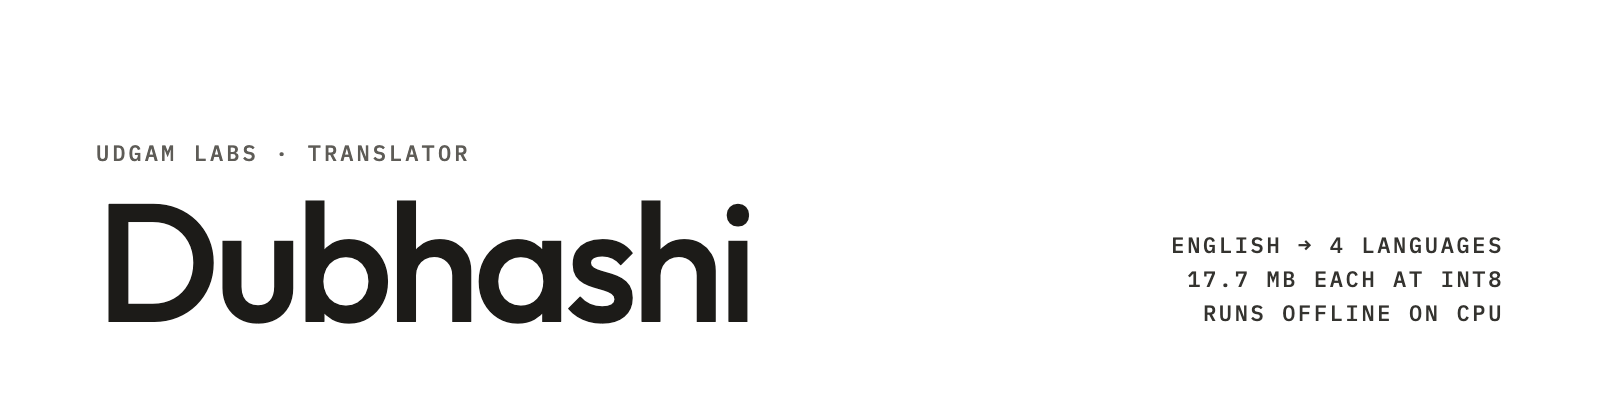
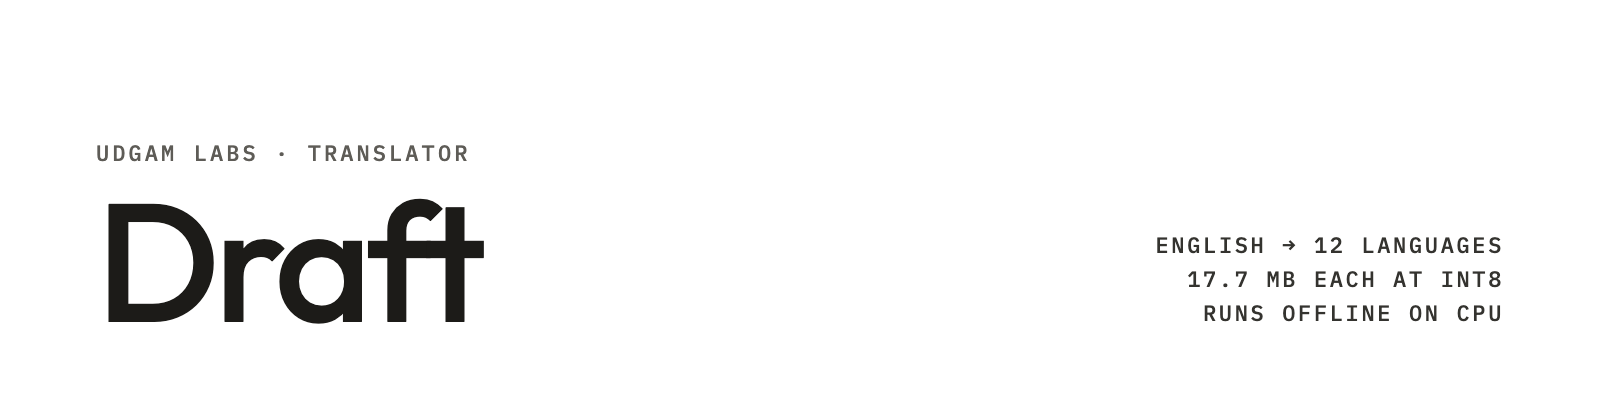
Twelve languages (16 Nov 2026): Hindi to Assamese, transformers.js in the browser, CTranslate2 start fix in the fine-tune recipe

Changed region(s): [[0.125, 0.48, 0.4688, 0.81], [0.7188, 0.57, 0.8438, 0.63]]

diff --git a/finetune/finetune.py b/finetune/finetune.py
@@ -29,7 +29,7 @@ def read_pairs(path):
 
 def main():
     ap = argparse.ArgumentParser()
-    ap.add_argument("--lang", required=True, choices=["gu", "pa", "as", "or"])
+    ap.add_argument("--lang", required=True, choices=["hi", "bn", "mr", "te", "ta", "gu", "ur", "kn", "ml", "pa", "or", "as"])
     ap.add_argument("--train", required=True)
     ap.add_argument("--dev")
     ap.add_argument("--out", required=True)
@@ -73,12 +73,22 @@ def main():
 
 
 def to_ct2(path):
-    """CTranslate2's Marian converter drops the last vocabulary row, assuming it is <pad>. These models keep <pad> at
-    id 2, so nothing must be dropped."""
+    """CTranslate2's Marian converter assumes the original Marian layout: <pad> is the last vocabulary row and the
+    decoder starts from an all-zero embedding. These models keep <pad> at id 2 and start the decoder from its learned
+    row, so nothing is dropped and the decoder starts from <pad> itself. Without the second fix the int8 build drifts
+    from the fp32 model (for one language it lost 2 chrF++)."""
     import ctranslate2
     from ctranslate2.converters import transformers as ct2t
 
     ct2t.MarianMTLoader._remove_pad_weights = lambda self, spec: None
+    ct2t.MarianMTLoader.set_decoder = lambda self, spec, dec: ct2t.BartLoader.set_decoder(self, spec, dec)
+    set_config = ct2t.MarianMTLoader.set_config
+
+    def _set_config(self, config, model, tokenizer):
+        set_config(self, config, model, tokenizer)
+        config.decoder_start_token = tokenizer.pad_token
+
+    ct2t.MarianMTLoader.set_config = _set_config
     ctranslate2.converters.TransformersConverter(path).convert(str(Path(path) / "ct2-int8"), quantization="int8",
                                                                force=True)
     import shutil

diff --git a/examples/translate.py b/examples/translate.py
@@ -1,4 +1,4 @@
-"""Translate English into Gujarati, Punjabi, Assamese or Odia from the command line, offline after the first run.
+"""Translate English into one of twelve languages from the command line, offline after the first run.
 
     pip install ctranslate2 sentencepiece huggingface_hub
     python translate.py gu "The train leaves at 6:45 tomorrow morning."
@@ -38,7 +38,8 @@ def translate(sp, tr, text):
 
 
 if __name__ == "__main__":
-    if len(sys.argv) < 2 or sys.argv[1] not in ("gu", "pa", "as", "or"):
-        sys.exit("usage: translate.py gu|pa|as|or [English text]   (reads stdin when no text is given)")
+    LANGS = ("hi", "bn", "mr", "te", "ta", "gu", "ur", "kn", "ml", "pa", "or", "as")
+    if len(sys.argv) < 2 or sys.argv[1] not in LANGS:
+        sys.exit("usage: translate.py " + "|".join(LANGS) + " [English text]   (reads stdin when no text is given)")
     sp, tr = load(sys.argv[1])
     print(translate(sp, tr, " ".join(sys.argv[2:]) or sys.stdin.read()))

diff --git a/README.md b/README.md
@@ -1,14 +1,16 @@
-![Dubhashi · Udgam Labs](./assets/banner.png)
+![Draft · Udgam Labs](./assets/banner.png)
 
-**UDGAM LABS** · Translator · English → Gujarati, Punjabi, Assamese, Odia · 17.7 MB each at int8
+**UDGAM LABS** · Translator · English → 12 languages · 17.7 MB each at int8
 
-# Dubhashi
+# Draft
 
-Dubhashi is four small translation models, one per direction: English → Gujarati, Punjabi, Assamese and Odia. Each has 17.3M
-parameters and is 17.7 MB at int8, and runs offline on an ordinary CPU (about 30 ms a sentence on one core of a Mac
-mini). They were distilled from IndicTrans2. English → Gujarati is ahead of Firefox's same-size offline model; the
-other three are about 8.6 times smaller to download than indicMT, the smallest open alternative we found, and 1.5 to
-4.8 chrF++ behind it.
+Draft is twelve small translation models, one per direction: English → Hindi, Bengali, Marathi, Telugu, Tamil, Gujarati,
+Urdu, Kannada, Malayalam, Punjabi, Odia and Assamese. Each has 17.3M parameters and is 17.7 MB at int8, and runs
+offline on an ordinary CPU (about 30 ms a sentence on one core of a Mac mini) or in a web browser with
+transformers.js. They were distilled from IndicTrans2. Each is about 8.5 times smaller to download than indicMT;
+by language, it is level with indicMT or up to 4.8 chrF++ behind it. Against Firefox's offline models: English → Gujarati is ahead; Bengali and
+Telugu are ahead on everyday conversation and behind on news-style text; the others are behind by up to 3.6; Firefox
+has no Punjabi, Odia or Assamese model.
 
 [Model cards on Hugging Face](https://huggingface.co/udgamlabs/mt-draft-en-gu) · [Try it](https://huggingface.co/spaces/udgamlabs/mt-draft) · [udgamlabs.com](https://udgamlabs.com)
 
@@ -20,8 +22,23 @@ python examples/translate.py gu "Can you send me the invoice for the last three 
 echo "The train leaves at 6:45 tomorrow morning." | python examples/translate.py or
 ```
 
-The first run downloads the 17.7 MB model for that language; after that it works offline. `gu`, `pa`, `as` and `or`
-pick the language. In your own code, see the two quick starts (Transformers and CTranslate2) on each model card.
+The first run downloads the 17.7 MB model for that language; after that it works offline. `hi`, `bn`, `mr`, `te`,
+`ta`, `gu`, `ur`, `kn`, `ml`, `pa`, `or` and `as` pick the language. In your own code, see the three quick starts
+(Transformers, CTranslate2 and transformers.js for JavaScript) on each model card.
+
+## In the browser
+
+Each model repo has an ONNX build for [transformers.js](https://huggingface.co/docs/transformers.js), about
+29 MB per language at int8, downloaded once and then run on the visitor's device:
+
+```js
+import { pipeline } from "@huggingface/transformers";
+const translate = await pipeline("translation", "udgamlabs/mt-draft-en-hi", { dtype: "q8" });
+console.log((await translate("Can you send me the invoice?"))[0].translation_text);
+```
+
+Tested in Chrome and Safari on a Mac: about 40 ms a sentence, the same outputs as the Python quick start in fp32 and
+the same quality in int8. Phones and other browsers are not measured.
 
 ## Fine-tune it on your own sentences
 
@@ -43,26 +60,37 @@ text into sentences first.
 
 ## Results
 
-chrF++ (higher is better), our harness, the same sentences for every system; greedy for ours, beam 5 for indicMT
-(153.8M, 169.2 MB at int8). Full tables with paired intervals are on each model card.
+chrF++ (higher is better), FLORES+ devtest / IN22-Conv, our harness, the same sentences for every system; greedy for
+ours and Firefox's offline models, beam 5 for indicMT (153.8M, 169.2 MB at int8). Full tables with paired intervals are
+on each model card.
 
-| Direction | Hugging Face | FLORES+ devtest | IN22-Conv | indicMT (FLORES+ / IN22-Conv) | Size at int8 |
+| Direction | Hugging Face | Ours | indicMT | Firefox offline (size) | Ours at int8 |
 |---|---|---:|---:|---:|---:|
-| English → Gujarati | [`udgamlabs/mt-draft-en-gu`](https://huggingface.co/udgamlabs/mt-draft-en-gu) | 53.21 | 49.60 | 53.95 / 50.12 | 19.7 MB |
-| English → Punjabi | [`udgamlabs/mt-draft-en-pa`](https://huggingface.co/udgamlabs/mt-draft-en-pa) | 49.41 | 51.47 | 51.89 / 54.72 | 19.5 MB |
-| English → Assamese | [`udgamlabs/mt-draft-en-as`](https://huggingface.co/udgamlabs/mt-draft-en-as) | 39.90 | 42.57 | 41.42 / 44.70 | 19.7 MB |
-| English → Odia | [`udgamlabs/mt-draft-en-or`](https://huggingface.co/udgamlabs/mt-draft-en-or) | 46.40 | 36.37 | 50.24 / 41.19 | 19.7 MB |
-
-English → Gujarati against Firefox's same-size offline model (17.1 MB): +0.66 [+0.13, +1.20] on FLORES+ and +2.11
-[+1.59, +2.67] on IN22-Conv (paired bootstrap, 95% interval). Firefox has no Punjabi, Assamese or Odia model.
+| English → Hindi | [`udgamlabs/mt-draft-en-hi`](https://huggingface.co/udgamlabs/mt-draft-en-hi) | 55.49 / 44.92 | 56.92 / 47.22 | 58.13 / 46.79 (17.1 MB) | 19.6 MB |
+| English → Bengali | [`udgamlabs/mt-draft-en-bn`](https://huggingface.co/udgamlabs/mt-draft-en-bn) | 50.41 / 44.88 | 50.99 / 47.21 | 51.34 / 43.57 (17.1 MB) | 19.8 MB |
+| English → Marathi | [`udgamlabs/mt-draft-en-mr`](https://huggingface.co/udgamlabs/mt-draft-en-mr) | 48.02 / 44.55 | 48.68 / 46.07 | 51.07 / 47.70 (31.6 MB) | 19.8 MB |
+| English → Telugu | [`udgamlabs/mt-draft-en-te`](https://huggingface.co/udgamlabs/mt-draft-en-te) | 55.50 / 40.94 | 56.56 / 42.62 | 56.62 / 40.21 (17.1 MB) | 19.9 MB |
+| English → Tamil | [`udgamlabs/mt-draft-en-ta`](https://huggingface.co/udgamlabs/mt-draft-en-ta) | 53.86 / 36.12 | 53.95 / 38.14 | 56.67 / 37.11 (31.6 MB) | 20.0 MB |
+| English → Gujarati | [`udgamlabs/mt-draft-en-gu`](https://huggingface.co/udgamlabs/mt-draft-en-gu) | 53.21 / 49.60 | 53.95 / 50.12 | 52.55 / 47.49 (17.1 MB) | 19.7 MB |
+| English → Urdu | [`udgamlabs/mt-draft-en-ur`](https://huggingface.co/udgamlabs/mt-draft-en-ur) | 48.24 / 56.06 | 49.15 / 57.91 | 50.68 / 59.62 (31.6 MB) | 19.4 MB |
+| English → Kannada | [`udgamlabs/mt-draft-en-kn`](https://huggingface.co/udgamlabs/mt-draft-en-kn) | 51.93 / 30.29 | 51.65 / 31.66 | 53.14 / 30.64 (17.1 MB) | 19.9 MB |
+| English → Malayalam | [`udgamlabs/mt-draft-en-ml`](https://huggingface.co/udgamlabs/mt-draft-en-ml) | 52.64 / 35.59 | 52.22 / 38.22 | 53.38 / 35.72 (17.1 MB) | 20.0 MB |
+| English → Punjabi | [`udgamlabs/mt-draft-en-pa`](https://huggingface.co/udgamlabs/mt-draft-en-pa) | 49.41 / 51.47 | 51.89 / 54.72 | none | 19.5 MB |
+| English → Odia | [`udgamlabs/mt-draft-en-or`](https://huggingface.co/udgamlabs/mt-draft-en-or) | 46.40 / 36.37 | 50.24 / 41.19 | none | 19.7 MB |
+| English → Assamese | [`udgamlabs/mt-draft-en-as`](https://huggingface.co/udgamlabs/mt-draft-en-as) | 39.90 / 42.57 | 41.42 / 44.70 | none | 19.7 MB |
 
 ## Where it falls short
 
-- Behind indicMT and IndicTrans2 dist-200M on every set we scored (0.5 to 4.8 chrF++ behind indicMT).
-- Some common letters are missing from each vocabulary and come out as "⁇" (Gujarati ઔ, ઐ, ઋ, ઑ; Assamese ঈ, ঊ, ঋ,
-  ঐ, ঔ; Odia ଈ, ଊ, ଐ, ଔ; Punjabi writes 0-9 instead of Gurmukhi digits). 1 to 4% of test outputs carry one.
+- Behind IndicTrans2 dist-200M, their teacher, and behind indicMT on every set except FLORES+ for Kannada,
+  Malayalam and Tamil (level), by up to 4.8 chrF++.
+- Behind Firefox's offline models for Hindi, Marathi, Tamil, Urdu, Kannada and Malayalam, and for Bengali and Telugu
+  on news-style text (0.3 to 3.6 chrF++).
+- Some letters are missing from each vocabulary and come out as "⁇": a few independent vowels per script (for example
+  Gujarati ઔ, Bengali ঔ, Malayalam ഋ), native digits in several scripts (0-9 are written instead), most Urdu
+  short-vowel marks. 0.2 to 4% of test outputs carry one; each model card lists its own.
 - Names are often mangled; idioms are translated word for word; long formal sentences lose meaning more often.
-- English into these four only. No native-speaker review yet. Speed is measured on one Mac mini CPU, not on phones.
+- English into these twelve only. No native-speaker review yet. Speed is measured on one Mac mini (CPU, Chrome,
+  Safari), not on phones.
 
 ## Licence
 

diff --git a/finetune/README.md b/finetune/README.md
@@ -1,8 +1,10 @@
 # Fine-tuning
 
-`finetune.py` trains one of the four models further on your own English → target sentence pairs with the Transformers
-`Seq2SeqTrainer`. Tested on 14 November 2026 with Transformers 5.23 on a Mac mini CPU (a 20-step run on 300
-pairs takes a few seconds; real runs want a GPU or patience).
+`finetune.py` trains one of the twelve models further on your own English → target sentence pairs with the Transformers
+`Seq2SeqTrainer`. Tested on 16 November 2026 with Transformers 5.23 and CTranslate2 4.9 on a Mac mini CPU (a
+20-step run on 300 pairs takes a few seconds; real runs want a GPU or patience). After `--ct2`, the int8 build gave
+the same translation as the Transformers model for 71% of 200 test sentences (80% in float32); the rest differ by
+rounding, not by quality.
 
 ```bash
 pip install -r requirements.txt
@@ -11,7 +13,7 @@ python finetune.py --lang gu --train pairs.tsv --dev dev.tsv --out my-model --ep
 
 | Option | Default | What it does |
 |---|---|---|
-| `--lang` | (required) | `gu`, `pa`, `as` or `or`: which model to start from |
+| `--lang` | (required) | `hi`, `bn`, `mr`, `te`, `ta`, `gu`, `ur`, `kn`, `ml`, `pa`, `or` or `as`: which model to start from |
 | `--train`, `--dev` | | tab-separated files: English, a tab, the translation, one pair per line |
 | `--epochs`, `--max-steps` | 3, off | how long to train (`--max-steps` wins when set) |
 | `--lr`, `--batch` | 1e-4, 32 | learning rate and batch size |
@@ -24,6 +26,8 @@ dev file the model never trains on, and compare it before and after.
 **Publishing a fine-tune:** the output's `README.md` already sets `base_model` and `base_model_relation: finetune`,
 so Hugging Face links it back to the original. Add what you trained on and how it scores.
 
-**Converting to CTranslate2 yourself:** CTranslate2's Marian converter drops the last vocabulary row, assuming it is
-`<pad>`. These models keep `<pad>` at id 2, so `finetune.py` turns that step off (`to_ct2`). Converting without it
-fails with "Source vocabulary 0 has size 32000 but the model expected a vocabulary of size 31999".
+**Converting to CTranslate2 yourself:** CTranslate2's Marian converter assumes the original Marian layout, where
+`<pad>` is the last vocabulary row and the decoder starts from an all-zero embedding. These models keep `<pad>` at id 2
+and start the decoder from its learned row, so `finetune.py` (`to_ct2`) changes two things: it keeps every row, and it
+starts the decoder from `<pad>`. Without the first, conversion fails with "Source vocabulary 0 has size 32000 but the
+model expected a vocabulary of size 31999"; without the second, the int8 build quietly drifts from the fp32 model.
